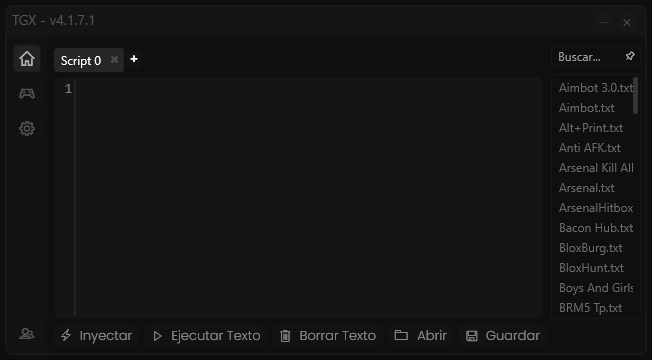
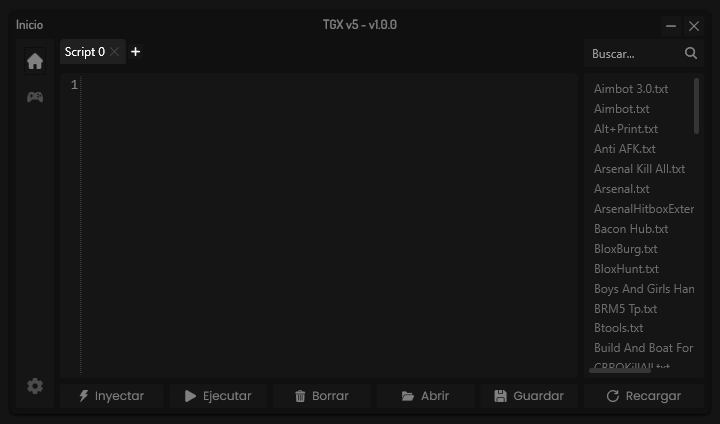
Added TGX V, Deleted Other versions.

diff --git a/app/routes/_index.tsx b/app/routes/_index.tsx
@@ -14,18 +14,22 @@ export const links = () => {
 
 export const x = [
   {
-    working: false,
+    working: true,
 
     showcase: require("~assets/showcase.png"),
-    title: "TGX V4",
+    title: "TGX V5",
     author: "The Gabloxia",
     description:
       "Nivel 7, multi api, +200 scripts, auto attach, auto execute y mucho más!",
-    downloadcdn: "/descargas/TGXV4",
+    downloadcdn: "/descargas/TGXV5",
     features:
-      " Nivel 7 / +180 Juegos / Auto Inyectar / Auto ejecutar / Sin ban / Sin Virus / Sin Key",
+      " Nivel 7 / +380 Juegos / Auto Inyectar / Auto ejecutar / Sin ban / Sin Virus / Sin Key",
     id: "1",
+    downloadlink: "https://link-hub.net/183458/tgx-v5"
   },
+
+ /*
+ 
   {
     working: false,
 
@@ -50,6 +54,7 @@ export const x = [
       "Nivel 7/Variedad de juegos/Muy compatible/No usa mucha ram/Sin Virus/Sin Key/Facil de usar/Actualizable!    ",
     id: "3",
   },
+  */
 ];
 
 export default function Index() {

diff --git a/app/routes/descargas.$descargas.tsx b/app/routes/descargas.$descargas.tsx
@@ -42,9 +42,9 @@ export default function descargas() {
               a cualquier hora
             </p>
             <div className="buttons">
-              <Link className="button" to={found.downloadcdn}>
+              <Link className="button" to={found.downloadlink}>
                 Descargar
-              </Link>{" "}
+              </Link>
             </div>
           </div>
         </div>
